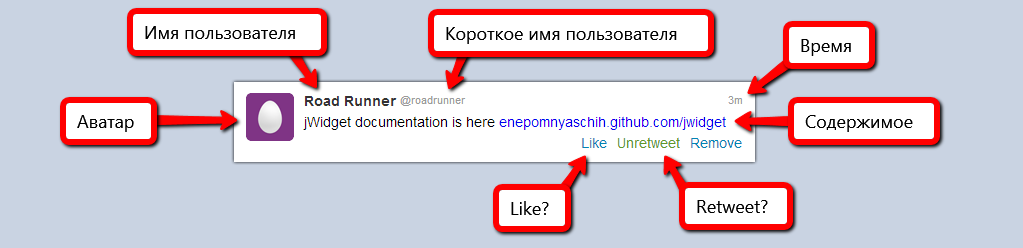
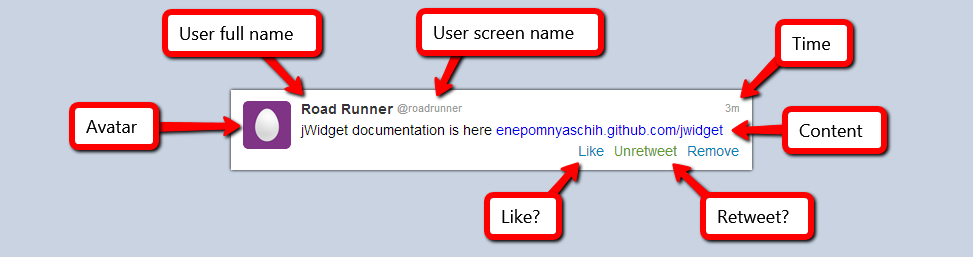
#8: Fixed mistakes in English docs.

Changed region(s): [[0.0617, 0.0282, 0.925, 0.9597]]

diff --git a/guides/ensample4/README.md b/guides/ensample4/README.md
@@ -26,7 +26,7 @@ or may be "like" will be added to some tweets by some other user actions? Anyway
 feel safe about that view will always be up-to-date.
 
 One more notice: in other Model-View frameworks (I mean, MVC frameworks) like ExtJS, Controller is responsible for
-event listening and handling. jWidget doesn't provide and features for such controllers implementation.
+event listening and handling. jWidget doesn't provide any features for such controllers implementation.
 Moreover, ExtJS implementation suffers in performance because of often CSS query calls, when it is unneccessary in
 jWidget where everything works by direct references to elements.
 

diff --git a/guides/ensample2/README.md b/guides/ensample2/README.md
@@ -4,7 +4,7 @@ Demo: [http://enepomnyaschih.github.io/mt/2/](http://enepomnyaschih.github.io/mt
 
 Source: [https://github.com/enepomnyaschih/mt/tree/mt-2](https://github.com/enepomnyaschih/mt/tree/mt-2) (Git branch)
 
-In thi spart, we'll meet JW.AbstractArray, will try its algorithms
+In this part, we'll meet JW.AbstractArray, will try its algorithms
 {@link JW.AbstractArray#method-map map} and {@link JW.AbstractArray#method-$map $map}
 and will learn how to add child UI component arrays.
 
